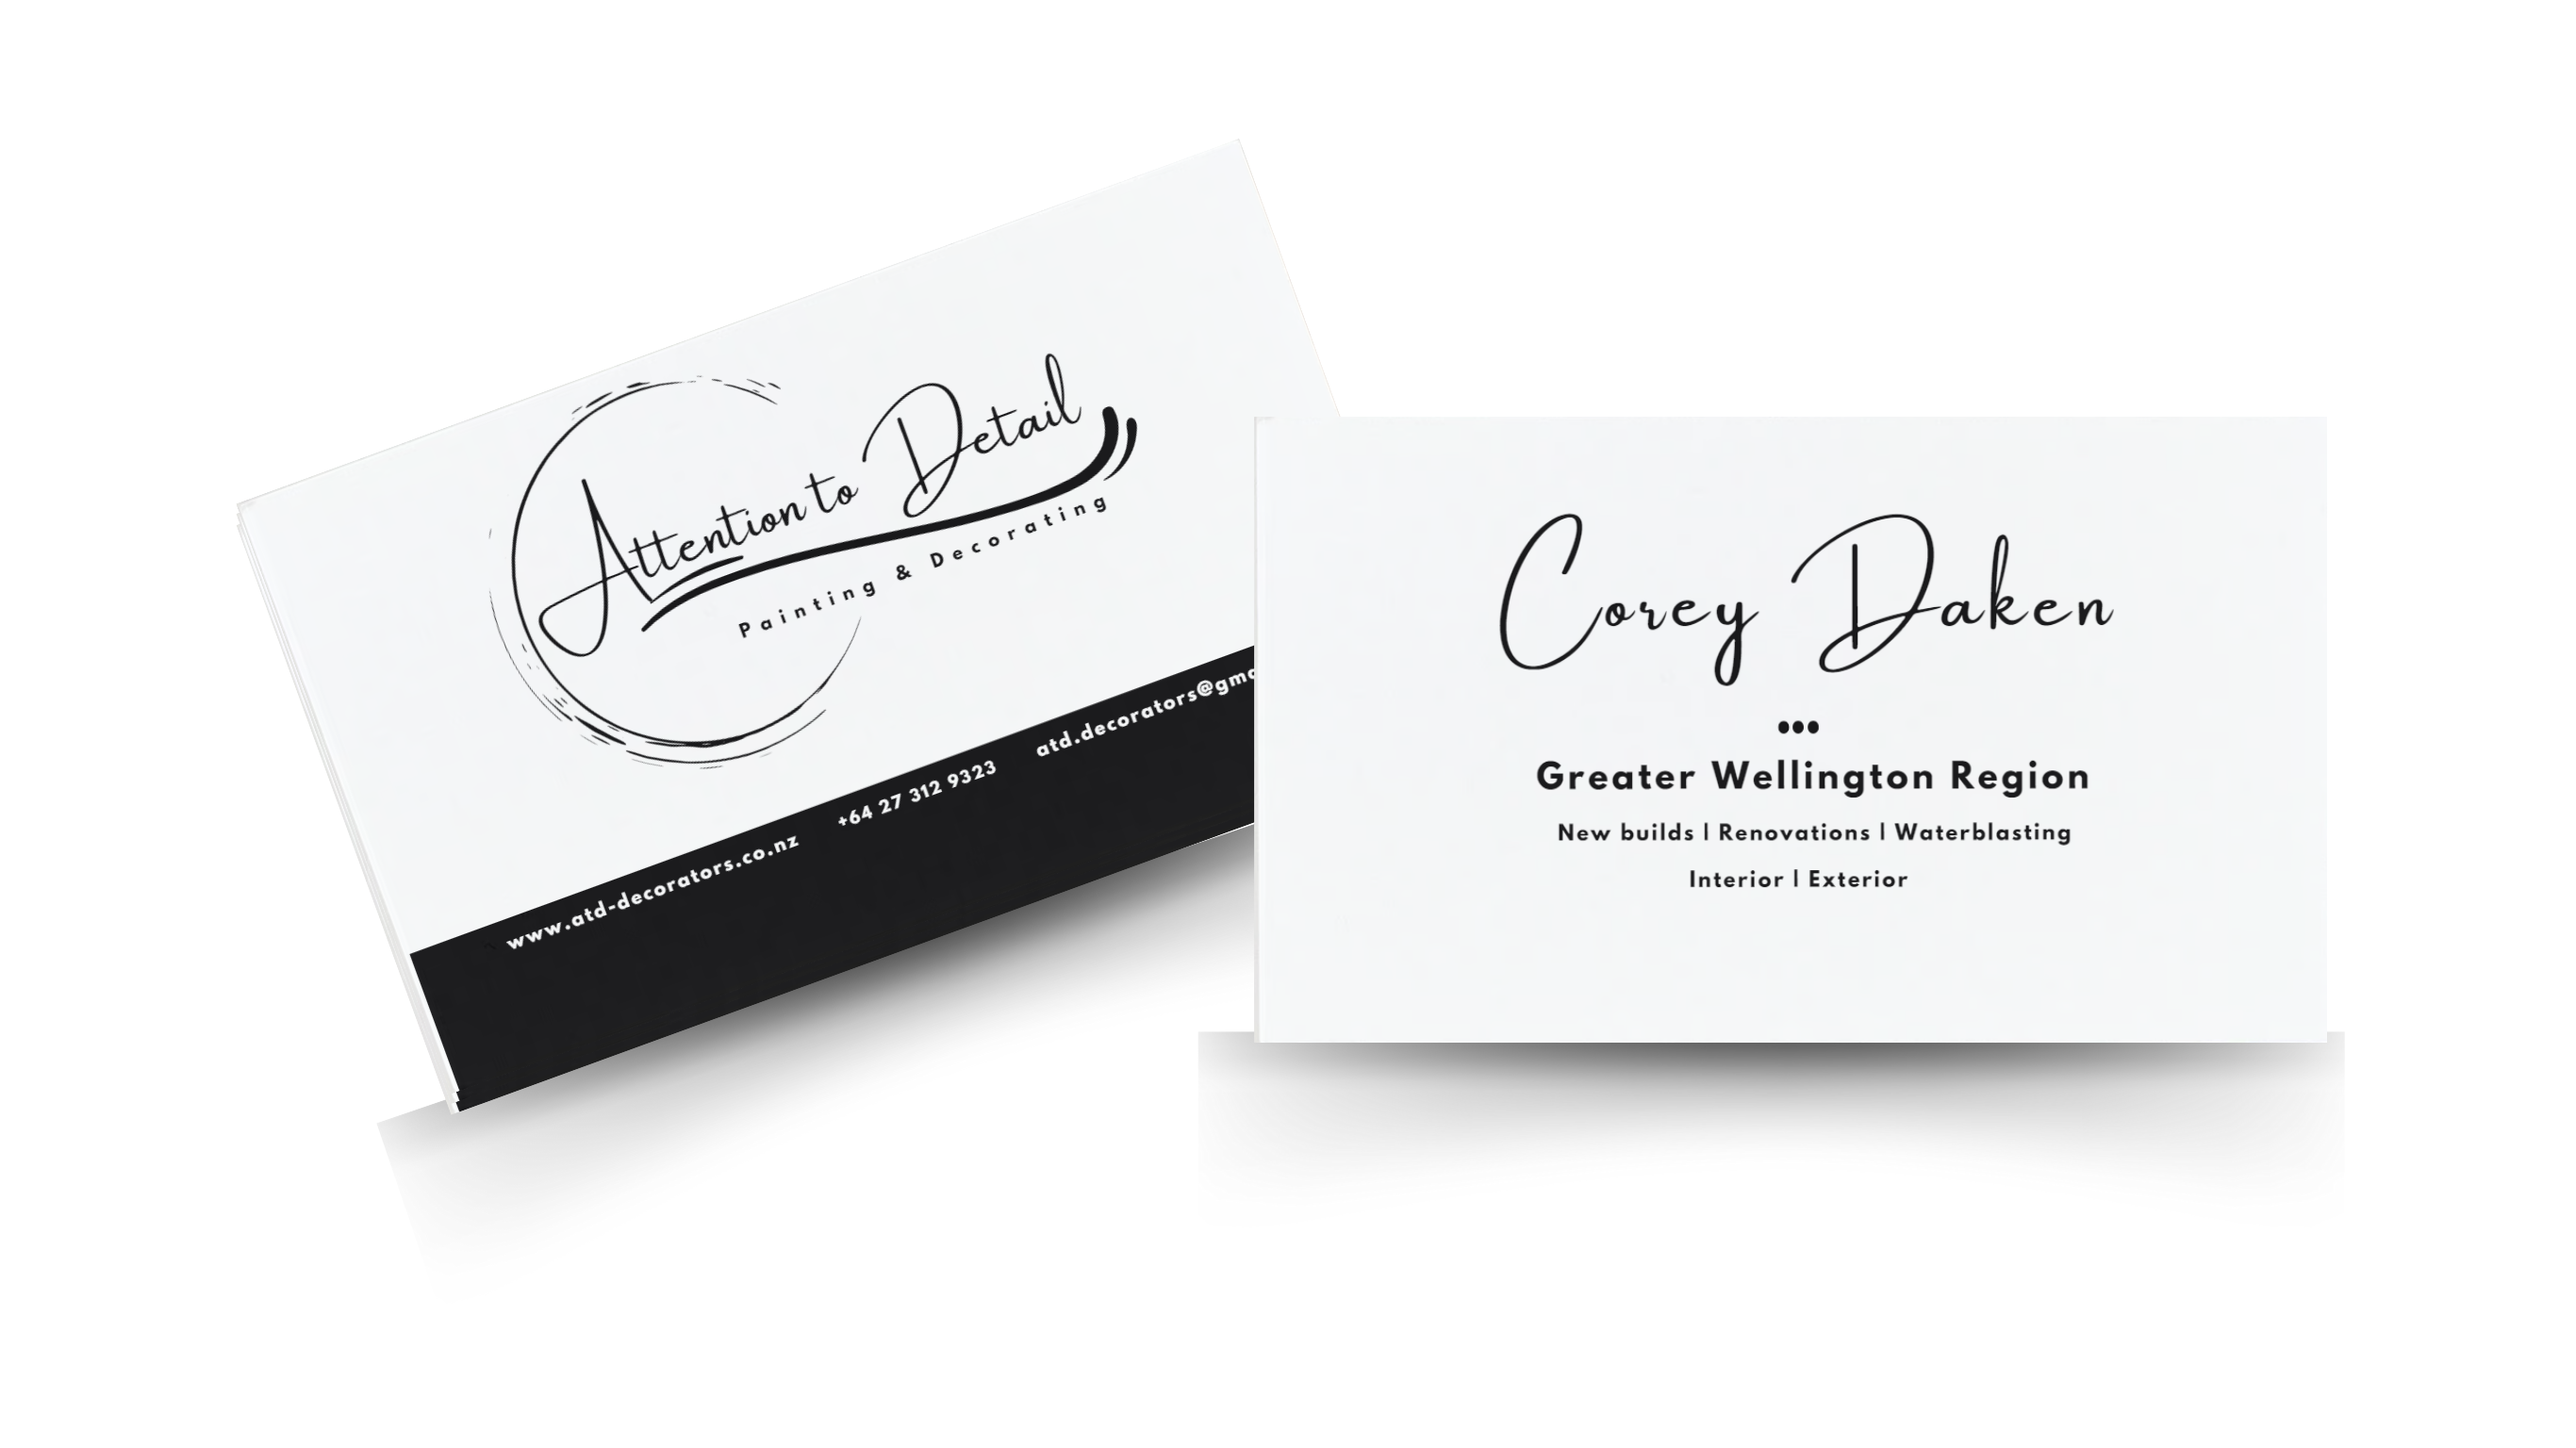
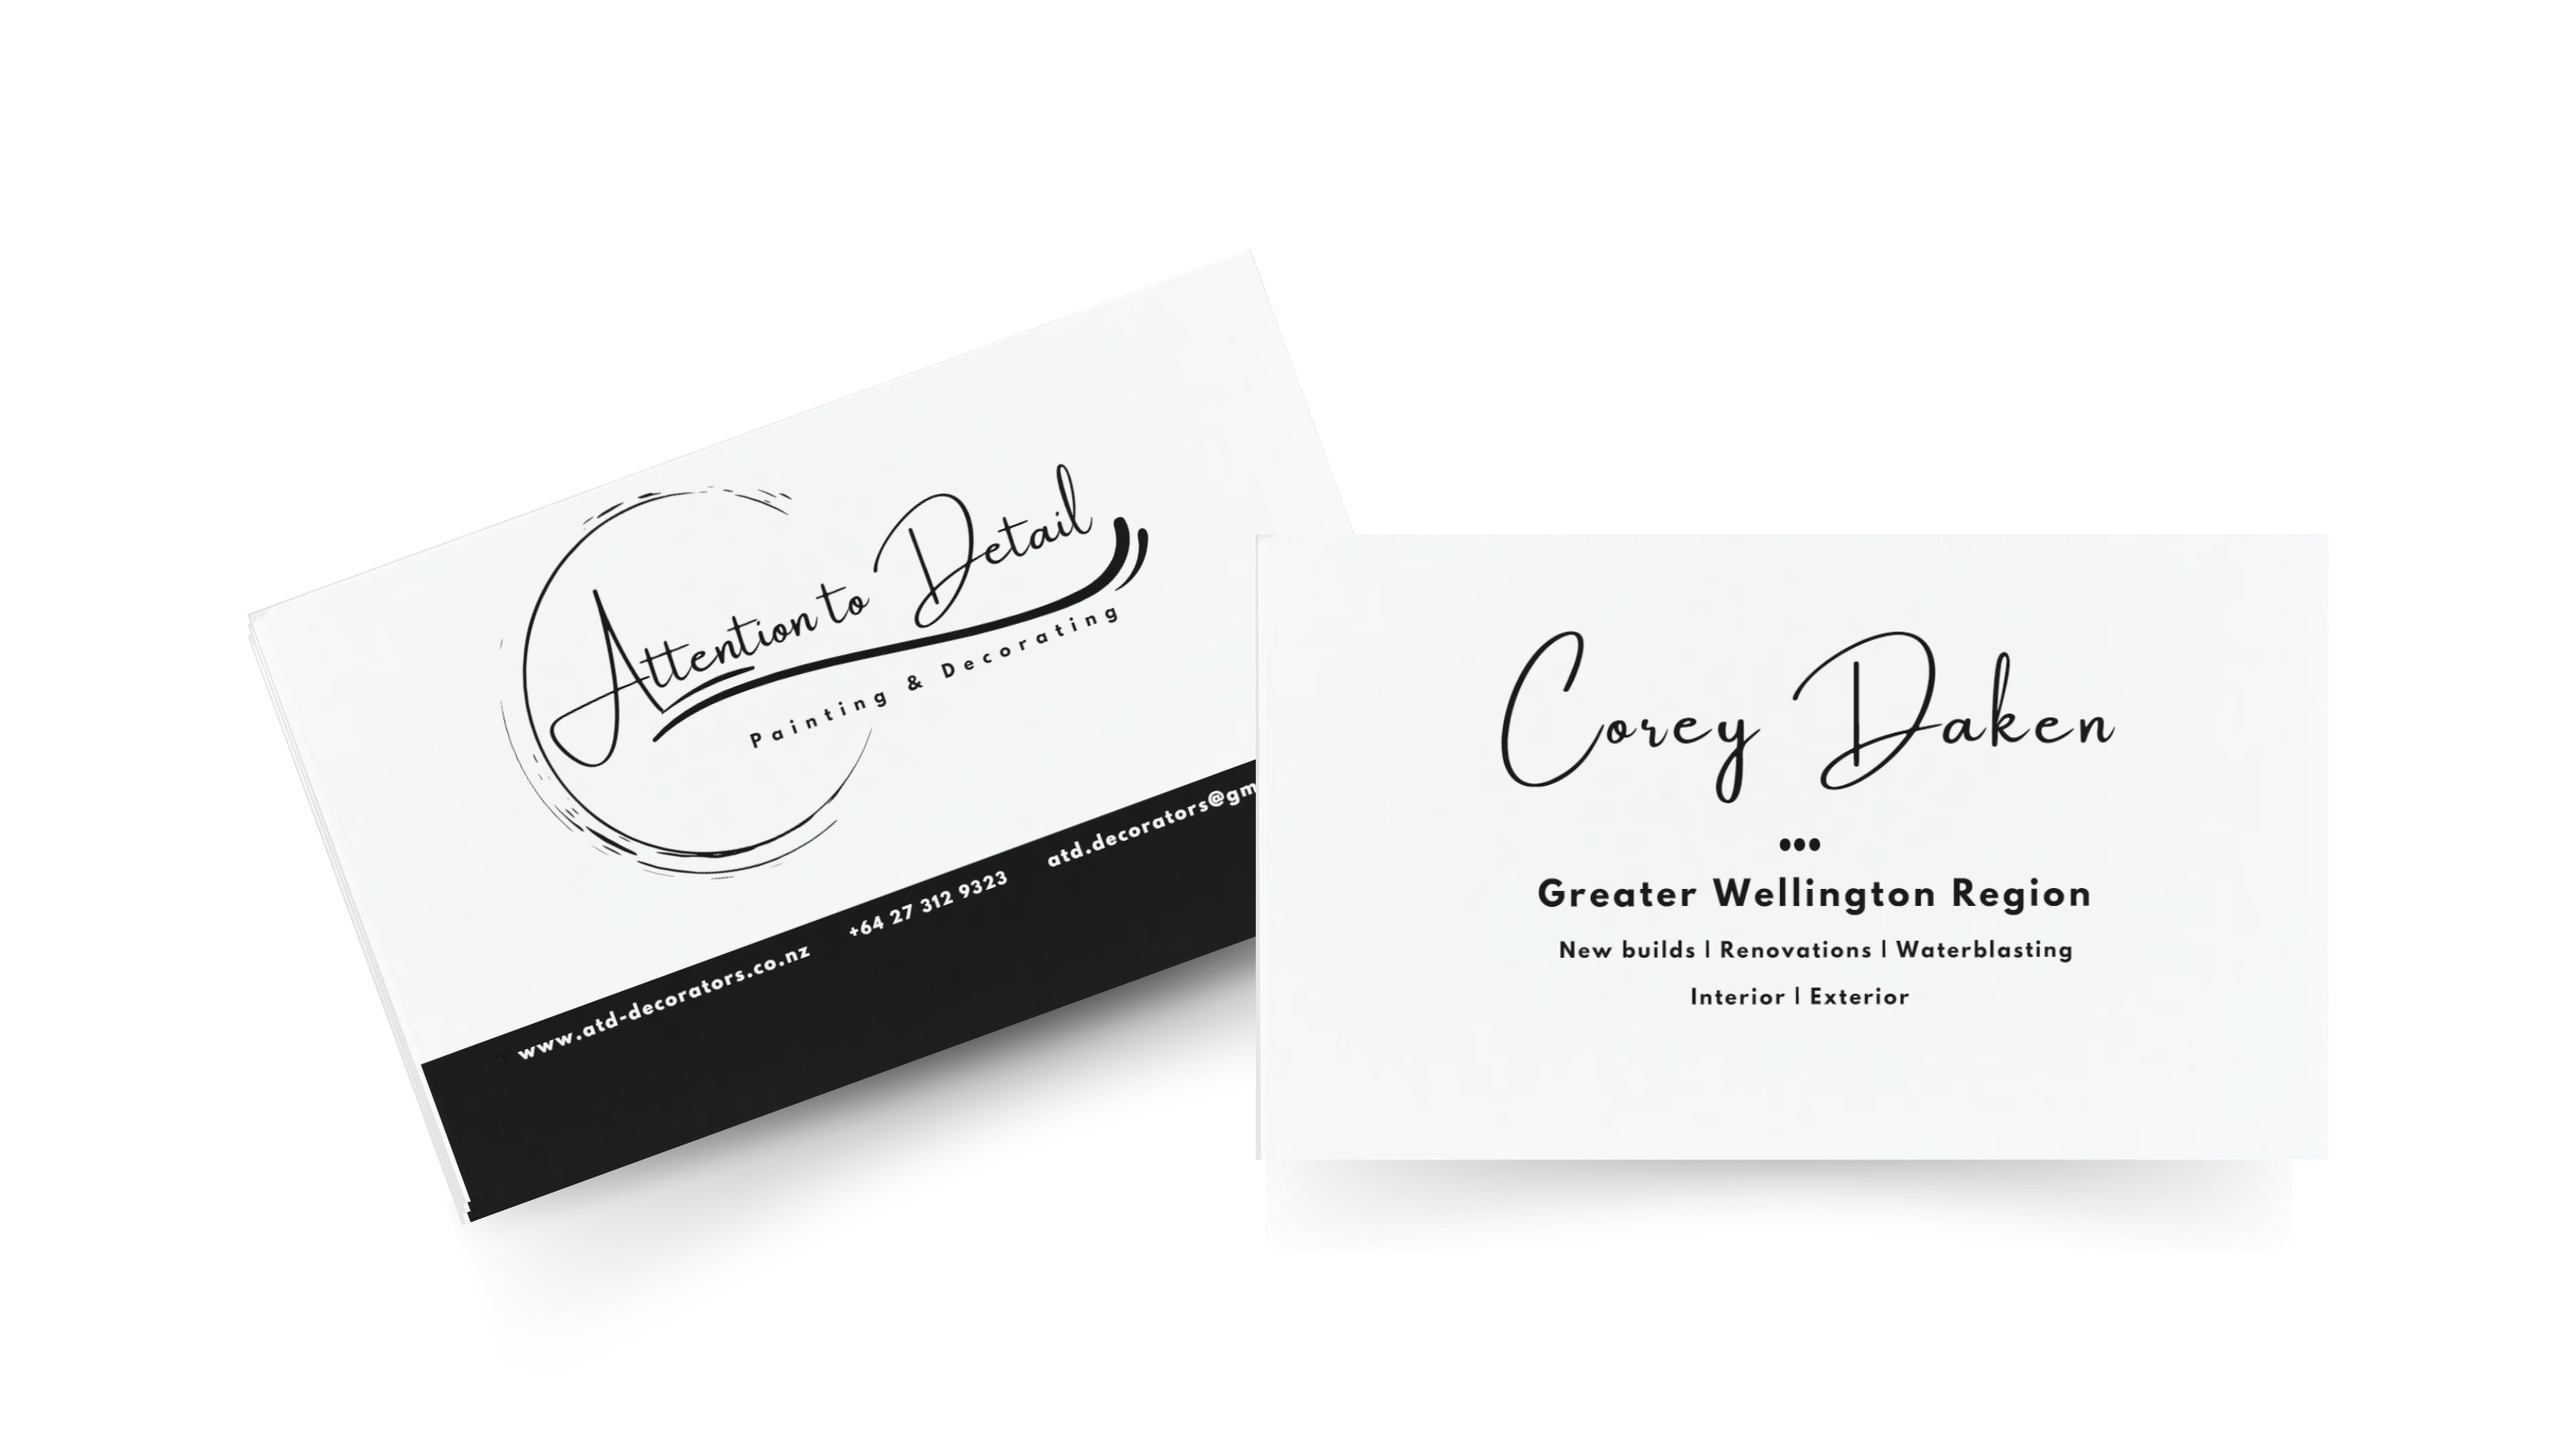
Adding projects to RecentProjects component

diff --git a/app/components/RecentProjects.tsx b/app/components/RecentProjects.tsx
@@ -4,14 +4,13 @@ import Image from 'next/image'
 import {
   Card,
   CardHeader,
-  CardBody,
+  // CardBody,
   CardFooter,
   Image as NextUIImage,
   Button,
 } from '@nextui-org/react'
 
 import { TextGenerateEffectWhileInView } from '@/components/ui/text-generate-effect-while-in-view'
-import projectOne from '../../public/images/project-image-test.png'
 import divider from '../../public/images/divider.png'
 
 const header = 'Recent Projects'
@@ -59,55 +58,70 @@ export default function RecentProjects() {
         </div>
 
         <div className="max-w-[1200px] 6xl:max-w-[1500px] gap-4 grid grid-cols-12 grid-rows-2 px-8 mx-auto mt-10">
-          <Card className="col-span-12 sm:col-span-7 h-[300px] xl:h-[400px] 6xl:h-[500px] bg-transparent/80 ">
+          <Card className="col-span-12 sm:col-span-7 h-[300px] xl:h-[400px] 6xl:h-[500px] dark:bg-transparent/80 bg-transparent/20">
             <CardHeader className="absolute z-10 top-1 flex-col !items-start">
-              <p className="text-tiny text-white/60 uppercase font-bold">
+              <p className="text-tiny dark:text-white/60 text-white/100 uppercase dark:font-bold">
                 Web Design & Development
               </p>
-              <h4 className="text-zinc-300 font-bold text-large">
+              <h4 className="dark:text-zinc-300 text-stone-800 dark:font-bold text-large">
                 Strictly Paper
               </h4>
             </CardHeader>
             <NextUIImage
               removeWrapper
-              alt="Card background"
+              alt="Project one card background"
               className="z-0 w-auto h-auto xl:w-full xl:h-full object-cover mt-14 xl:mt-0"
               src="/images/project-image-test.png"
             />
             <CardFooter className="absolute bg-black/40 bottom-0 z-10 border-t-1 border-default-600 dark:border-default-100">
               <div className="flex flex-grow gap-2 items-center">
-                <NextUIImage
-                  alt="Breathing app icon"
-                  className="rounded-full w-10 h-11 bg-black"
-                  src="https://nextui.org/images/breathing-app-icon.jpeg"
-                />
                 <div className="flex flex-col">
-                  <p className="text-tiny text-white/60">Breathing App</p>
-                  <p className="text-tiny text-white/60">
-                    Get a good night's sleep.
+                  <p className="text-tiny dark:text-white/60 text-white/100">
+                    Wallpapering Website
+                  </p>
+                  <p className="text-tiny dark:text-white/60 text-white/100">
+                    Created from scratch with NextJS.
                   </p>
                 </div>
               </div>
-              <Button radius="full" size="sm">
-                Get App
-              </Button>
+              <a href="https://strictly-paper.nz/" target="_blank">
+                <Button
+                  radius="full"
+                  size="sm"
+                  className="dark:bg-zinc-300 dark:text-stone-800 bg-stone-800 text-zinc-300"
+                >
+                  View live
+                </Button>
+              </a>
             </CardFooter>
           </Card>
-          <Card className="col-span-12 sm:col-span-5 h-[300px] xl:h-[400px] bg-transparent/80 p-4">
+          <Card className="col-span-12 sm:col-span-5 h-[300px] xl:h-[350px] 6xl:h-[450px] dark:bg-transparent/80 bg-transparent/20 hover:overflow-visible">
             <CardHeader className="absolute z-10 top-1 flex-col !items-start">
-              <p className="text-tiny text-white/60 uppercase font-bold">
-                Plant a tree
+              <p className="text-tiny dark:text-white/60 text-white/100 uppercase dark:font-bold">
+                Logo & Business Card Design
               </p>
-              <h4 className="text-black font-medium text-large">
-                Contribute to the planet
+              <h4 className="dark:text-zinc-300 text-stone-800 dark:font-bold text-large">
+                Attention to Detail Decorators
               </h4>
             </CardHeader>
             <NextUIImage
               removeWrapper
               alt="Card background"
-              className="z-0 w-full h-full object-cover hover:scale-150"
+              className="z-0 w-auto h-auto xl:w-full xl:h-full object-cover mt-14 xl:mt-6 hover:scale-[2] hover:z-10 hover:backdrop-blur-sm hover:-translate-x-2/3 hover:transition hover:ease-in hover:duration-1000"
               src="/images/atd-business-card.png"
             />
+            <CardFooter className=" bg-black/40 bottom-0 border-t-1 border-default-600 dark:border-default-100">
+              <div className="flex flex-grow gap-2 items-center">
+                <div className="flex flex-col">
+                  <p className="text-tiny dark:text-white/60 text-white/100">
+                    Hover for a better look
+                  </p>
+                  <p className="text-tiny dark:text-white/60 text-white/100">
+                    Created in Canva.
+                  </p>
+                </div>
+              </div>
+            </CardFooter>
           </Card>
           {/* <Card className="col-span-12 sm:col-span-4 h-[300px]">
             <CardHeader className="absolute z-10 top-1 flex-col !items-start">
